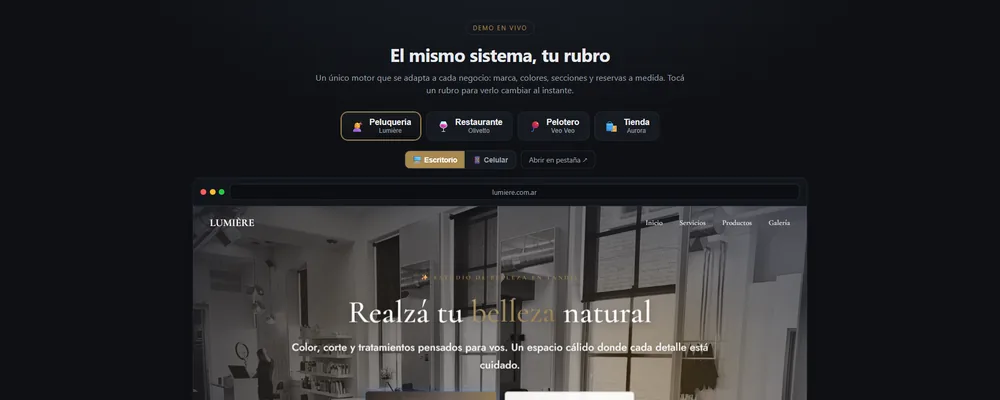
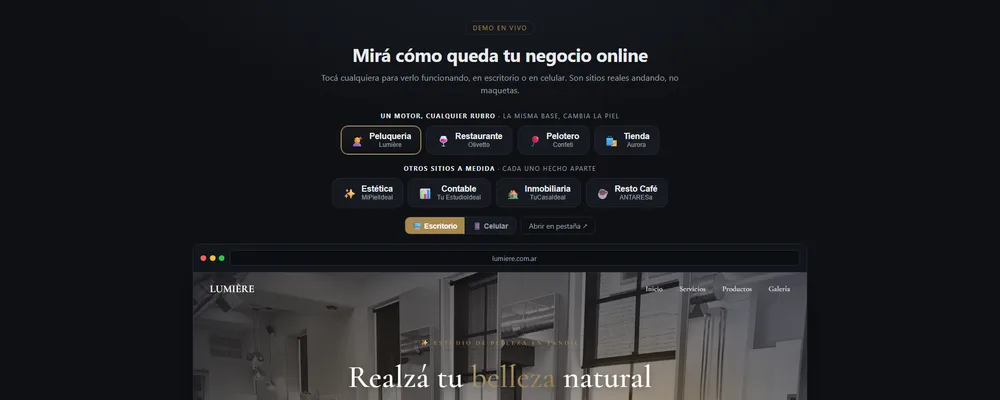
fix(demos): la tarjeta de la vidriera mostraba "Veo Veo" y decía 4 de 8
Tres defectos en la misma tarjeta (Demo 6), todos por quedar congelada en el
estado del 23/08:

1. La miniatura mostraba el tile "Pelotero / Veo Veo" — la marca del CLIENTE
   REAL que paga, visible en la landing pública. Se capturó antes del
   rebranding a Confeti Fiestas.
2. Estaba desactualizada en general: la vidriera cambió de titular y sumó un
   segundo grupo de sitios que la imagen no mostraba.
3. Decía "4 rubros" cuando la vidriera tiene 8 tiles.

Miniatura recapturada de la vidriera en vivo (misma convención que las otras 5:
1920x1080 -> top 768px -> 1000x400 WebP q82). Los 8 tiles entran en ese recorte
con sus dos grupos separados, así que la imagen ahora respalda el número.

El copy dice 8 SIN mentir: cuatro son el mismo motor con otra piel y cuatro
están hechos aparte. La vidriera separa los dos grupos a propósito —
presentarlos como "8 rubros del motor" le vendería al prospecto algo que no es.

Auditadas de paso las otras 4 miniaturas (MiPielIdeal, Tu EstudioIdeal,
TuCasaIdeal, ANTARESa) contra sus sitios en vivo de hoy: están al día, no
hacía falta tocarlas.

Changed region(s): [[0.186, 0.27, 0.806, 1.0], [0.31, 0.12, 0.682, 0.24]]

diff --git a/index.html b/index.html
@@ -419,9 +419,9 @@
 
       <!-- Demo 6 -->
       <div class="demo reveal">
-        <div class="thumb vitrina"><img class="shot" src="assets/demos/vitrina.webp" alt="Vidriera con el selector de rubros y un sitio de ejemplo dentro de un marco de navegador" loading="lazy" onerror="this.remove()" /><span class="vert">4 rubros</span><span class="label">Vidriera de rubros</span></div>
+        <div class="thumb vitrina"><img class="shot" src="assets/demos/vitrina.webp" alt="Vidriera con ocho sitios en vivo, separados en rubros del mismo motor y sitios hechos a medida, con uno abierto dentro de un marco de navegador" loading="lazy" onerror="this.remove()" /><span class="vert">8 sitios</span><span class="label">Vidriera de rubros</span></div>
         <div class="body">
-          <p>El mismo motor con la piel de cuatro negocios distintos: peluquería, restaurante, pelotero y tienda. Tocá un rubro y mirá cómo cambian la marca, los colores y las secciones al instante. Así se ve tu sitio antes de que exista.</p>
+          <p>Ocho sitios en vivo en un solo lugar: cuatro son el mismo motor con la piel de otro negocio —peluquería, restaurante, pelotero y tienda— y cuatro están hechos a medida. Tocá cualquiera y miralo andando, en escritorio o en celular. Así se ve tu sitio antes de que exista.</p>
           <a class="ver" href="https://plantilla-demos-mrobles.web.app/vitrina.html" target="_blank" rel="noopener">
             Ver demo <svg viewBox="0 0 24 24"><path d="M5 12h12.2l-5.1-5.1L13.5 5.5 21 13l-7.5 7.5-1.4-1.4 5.1-5.1H5z"/></svg>
           </a>
